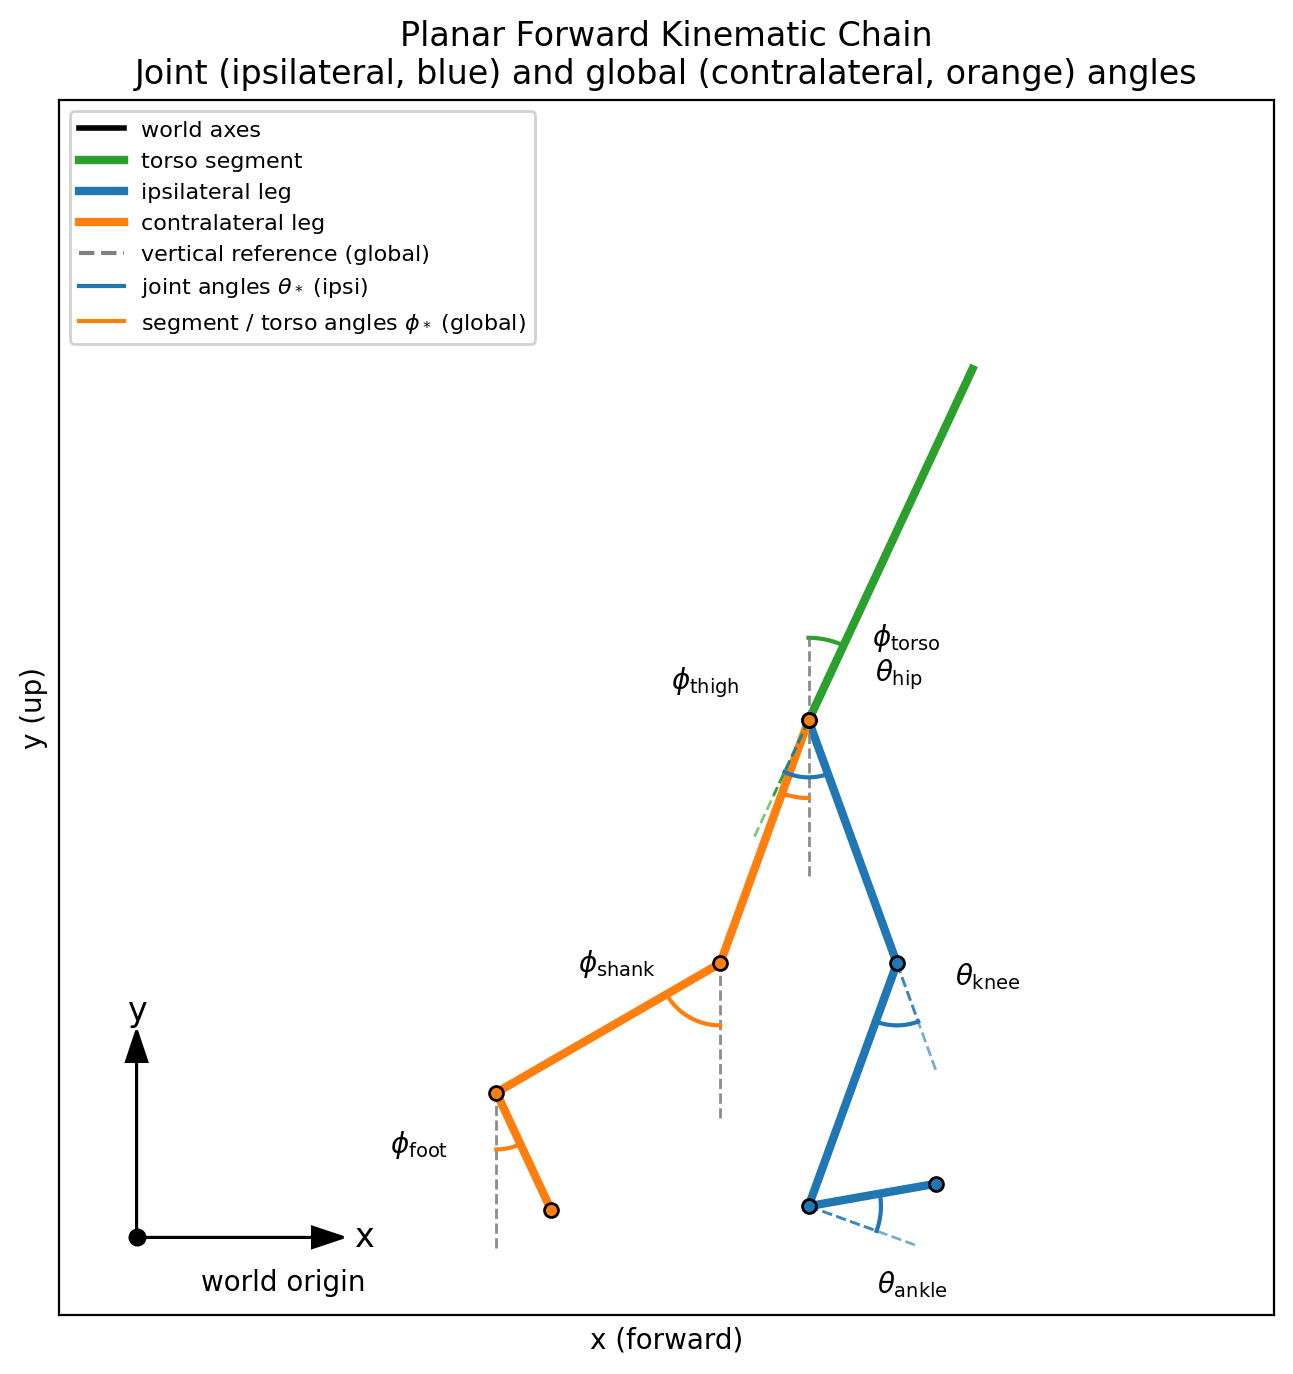
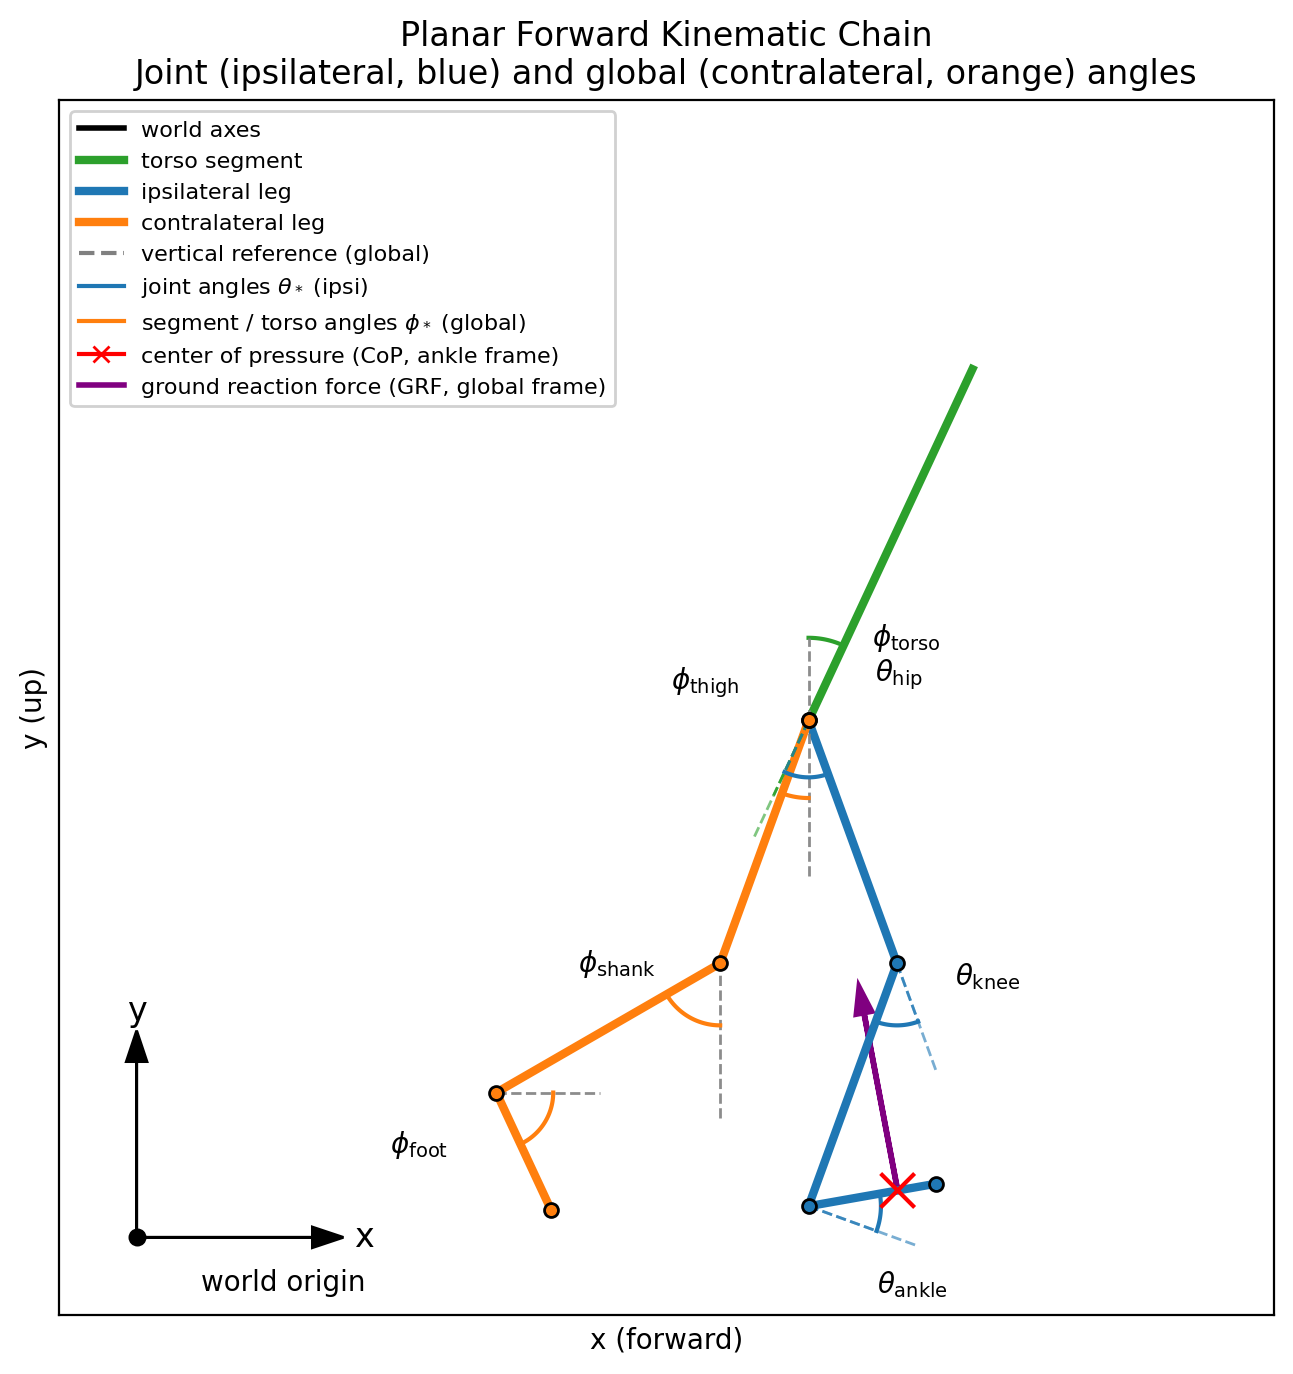
Refine kinematic reference figure annotations

diff --git a/internal/plot_generation/generate_forward_kinematics_reference.py b/internal/plot_generation/generate_forward_kinematics_reference.py
@@ -345,10 +345,22 @@ def generate_reference_figure(output_path: str) -> None:
         color="tab:orange",
     )
 
-    # Global vertical reference lines at contralateral joints
+    # Global reference lines at contralateral joints
+    # Hip and knee use vertical (global y) references.
     _draw_vertical_reference(ax, hip_contra, length=0.6)
     _draw_vertical_reference(ax, knee_contra, length=0.6)
-    _draw_vertical_reference(ax, ankle_contra, length=0.6)
+    # For the foot global angle, use a horizontal dashed line (global +x)
+    # extending to the right of the ankle so that the reference for φ_foot
+    # is rotated 90° from vertical and clearly visible.
+    foot_ref_len = 0.4
+    ax.plot(
+        [ankle_contra[0], ankle_contra[0] + foot_ref_len],
+        [ankle_contra[1], ankle_contra[1]],
+        linestyle="--",
+        color="gray",
+        linewidth=1.0,
+        alpha=0.9,
+    )
 
     # Angle arcs for ipsilateral joint definitions (θ_*) and global angles (φ_*).
     vertical_down = np.array([0.0, -1.0])
@@ -435,9 +447,14 @@ def generate_reference_figure(output_path: str) -> None:
     # Ankle joint angle θ_ankle: between shank-based reference (previous link + 90°)
     # and the foot segment.
     shank_from_ankle_ipsi = knee_ipsi - ankle_ipsi  # ankle -> knee
-    # Rotate shank vector by +90° and then flip 180° so the dashed reference
-    # lies on the opposite side of the joint from the current orientation.
-    shank_ref = -np.array([-shank_from_ankle_ipsi[1], shank_from_ankle_ipsi[0]])
+    # Rotate shank vector by -90° so the dashed ankle-reference line is
+    # shifted by 90° relative to the shank direction for the foot angle.
+    shank_ref = np.array(
+        [
+            shank_from_ankle_ipsi[1],
+            -shank_from_ankle_ipsi[0],
+        ]
+    )
     foot_vec_ipsi = foot_ipsi - ankle_ipsi
     _draw_segment_reference(
         ax,
@@ -455,6 +472,42 @@ def generate_reference_figure(output_path: str) -> None:
         color="tab:blue",
     )
     _angle_annotation(ax, ankle_ipsi, r"$\theta_{\mathrm{ankle}}$", (0.40, -0.30))
+
+    # Center of pressure (CoP) marker on ipsilateral foot (red cross),
+    # positioned slightly proximal toward the ankle.
+    cop_alpha = 0.7  # 0 = at ankle, 1 = at foot tip
+    cop_pos = ankle_ipsi + cop_alpha * (foot_ipsi - ankle_ipsi)
+    cop_size = 0.06
+    ax.plot(
+        [cop_pos[0] - cop_size, cop_pos[0] + cop_size],
+        [cop_pos[1] - cop_size, cop_pos[1] + cop_size],
+        color="red",
+        linewidth=1.5,
+    )
+    ax.plot(
+        [cop_pos[0] - cop_size, cop_pos[0] + cop_size],
+        [cop_pos[1] + cop_size, cop_pos[1] - cop_size],
+        color="red",
+        linewidth=1.5,
+    )
+
+    # Ground reaction force (GRF) vector shown as a purple arrow originating
+    # at the CoP and pointing mostly toward the hip (combined vertical + shear).
+    grf_dir = hip_ipsi - cop_pos
+    grf_norm = np.linalg.norm(grf_dir) + 1e-9
+    grf_dir = grf_dir / grf_norm
+    grf_length = 0.8
+    ax.arrow(
+        cop_pos[0],
+        cop_pos[1],
+        grf_length * grf_dir[0],
+        grf_length * grf_dir[1],
+        head_width=0.06,
+        head_length=0.10,
+        length_includes_head=True,
+        color="purple",
+        linewidth=2.0,
+    )
 
     # Global-angle arcs (φ_*) on contralateral leg versus vertical.
     # Thigh global angle at hip: vertical down vs thigh vector.
@@ -490,7 +543,8 @@ def generate_reference_figure(output_path: str) -> None:
     _draw_angle_arc(
         ax,
         center=ankle_contra,
-        start_vec=vertical_down,
+        # Start from global +x (aligned with the horizontal dashed reference)
+        start_vec=np.array([1.0, 0.0]),
         end_vec=foot_vec_contra,
         radius=0.22,
         color="tab:orange",
@@ -545,6 +599,22 @@ def generate_reference_figure(output_path: str) -> None:
             color="tab:orange",
             linewidth=1.5,
             label=r"segment / torso angles $\phi_*$ (global)",
+        ),
+        plt.Line2D(
+            [0],
+            [0],
+            color="red",
+            linewidth=1.5,
+            marker="x",
+            markersize=6,
+            label="center of pressure (CoP, ankle frame)",
+        ),
+        plt.Line2D(
+            [0],
+            [0],
+            color="purple",
+            linewidth=2.0,
+            label="ground reaction force (GRF, global frame)",
         ),
     ]
     ax.legend(
